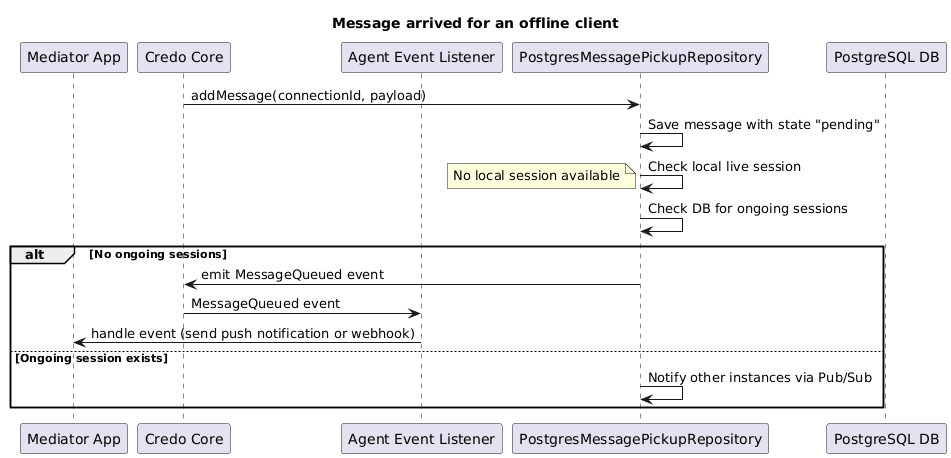
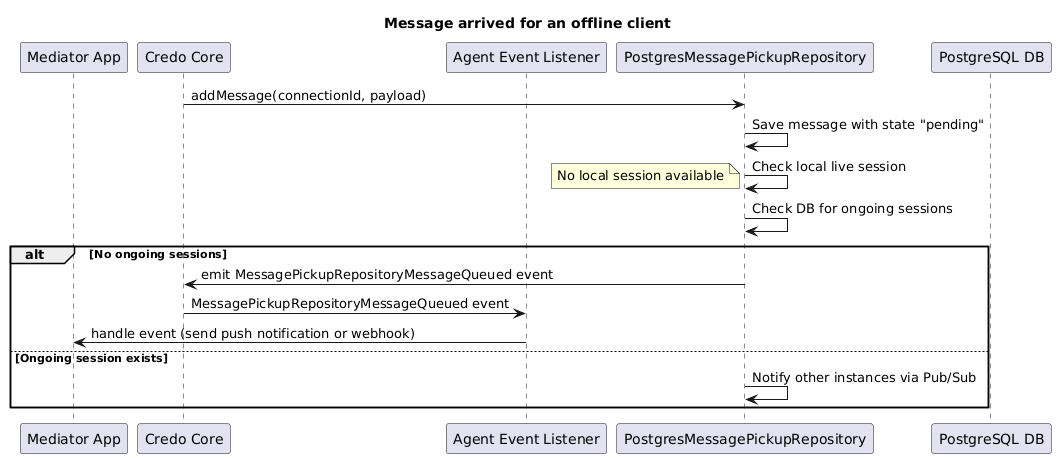
docs: Change  MessageQueued to MessagePickupRepositoryMessageQueued documentation references.

diff --git a/packages/message-pickup-repository-pg/README.md b/packages/message-pickup-repository-pg/README.md
@@ -15,7 +15,7 @@ This package provides a simple but efficient Message Pickup Repository implement
 
 - Automatic database initialization: set up the database structure required for message operations at startup.
 
-- Event-driven notifications: emit a `MessageQueued` event whenever a message is queued, allowing external listeners to implement flexible notification mechanisms like push notifications or webhooks when a message has arrived for an offline user (not connected to any instance).
+- Event-driven notifications: emit a `MessagePickupRepositoryMessageQueued` event whenever a message is queued, allowing external listeners to implement flexible notification mechanisms like push notifications or webhooks when a message has arrived for an offline user (not connected to any instance).
 
 ## How does it work?
 
@@ -26,7 +26,7 @@ When a new message for a certain DIDComm connection is added to the queue, `Post
 - If there is a local Live mode session, it will pack and deliver the message directly, adding it to the persistent queue with a particular status flag (`sending`) to reflect that it is expected to be delivered and acknowledged soon
 - If there is not any local session, the client could be connected to another instance. Therefore, it adds the message to the persistent queue and looks into the shared message pickup session database:
   - If there is a session registered to another instance, it will publish a notification
-  - If no session is found, it emits a `MessageQueued` event, which external listeners can use to handle notifications (push/webhooks).
+  - If no session is found, it emits a `MessagePickupRepositoryMessageQueued` event, which external listeners can use to handle notifications (push/webhooks).
 
 > **Note**: at the moment, all instances are notified when a message arrives for any online DIDComm connection. A possible improvement could be to create a channel per connection, so only the instance connected to that client is triggered. But it is uncertain for us yet how well it would scale when there is a large number of connected users at the same time.
 
@@ -82,7 +82,7 @@ Note that in this example, notification token is stored as a tag in connection r
 await messagePickupRepository.initialize({ agent })
 ```
 
-### Handling `MessageQueued` Event
+### Handling `MessagePickupRepositoryMessageQueued` Event
 
 Listeners can handle queued messages by listening for the emitted event:
 
@@ -124,7 +124,7 @@ const agent = new Agent({
 await messagePickupRepository.initialize({ agent })
 await agent.initialize()
 
-agent.events.on('MessageQueued', async ({ payload }) => {
+agent.events.on('MessagePickupRepositoryMessageQueued', async ({ payload }) => {
   const { connectionId, messageId } = payload
 
   // Custom logic for notification, webhook, etc here
